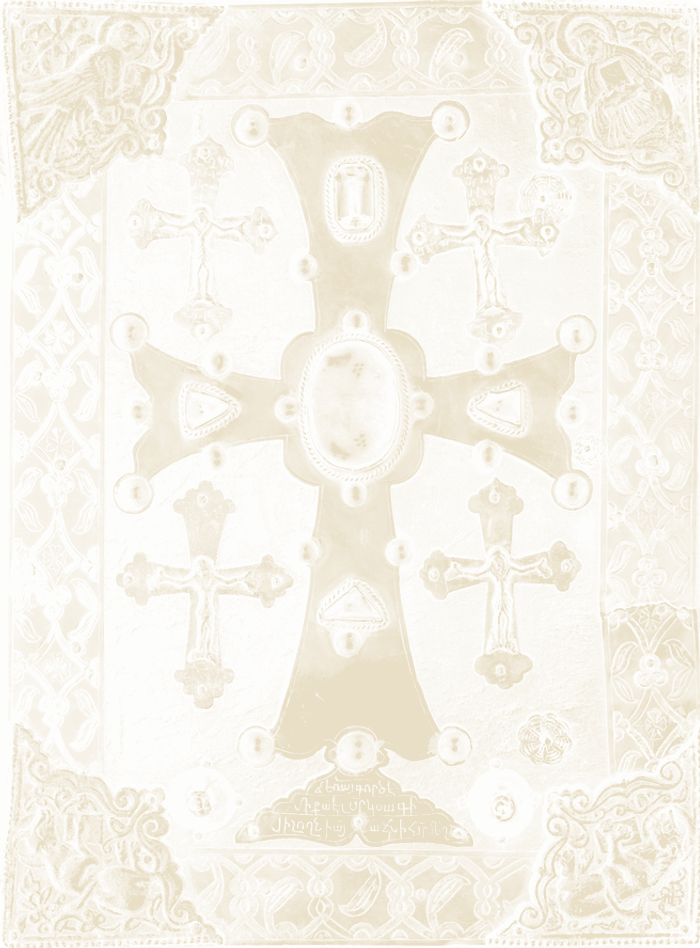
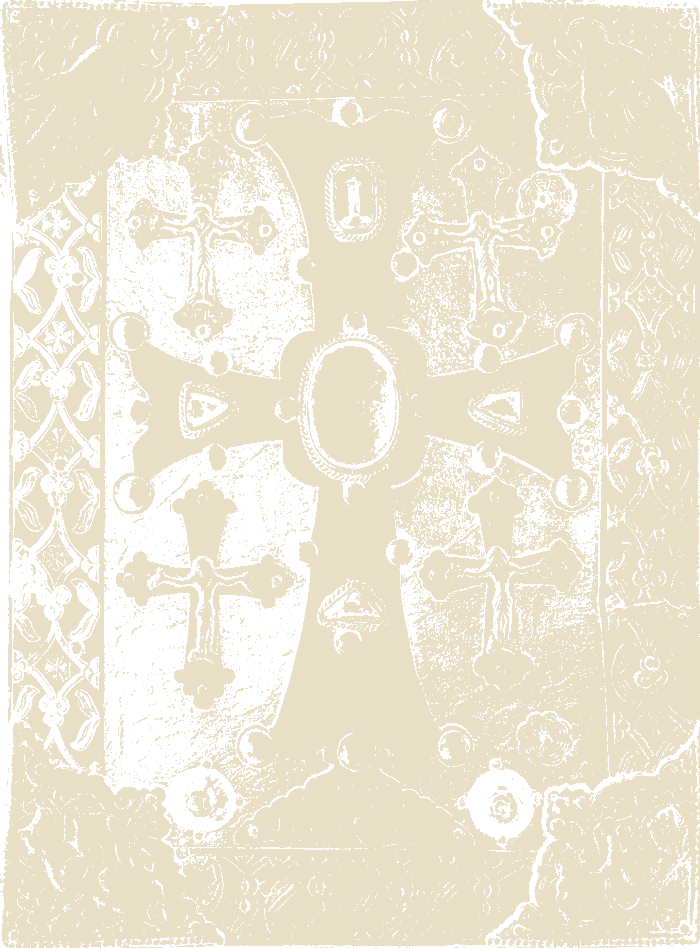
Grimorio: hojas enteras, cascada que frena y apertura lenta; alto contraste en grimorio y bola

diff --git a/src/components/altar.css b/src/components/altar.css
@@ -296,8 +296,7 @@ body:has(.blood) nav.top a, body:has(.blood) nav.top button { text-shadow: 0 0 6
 @media (prefers-reduced-motion: reduce) { .obj-key:hover .k { animation: none; } }
 :root[data-theme='light'] .obj-key .lift { filter: contrast(1.35) brightness(.85) drop-shadow(0 6px 6px rgba(60, 45, 25, .18)); }
 
-/* grimorio: la tapa gira sobre el lomo (izquierda) y las hojas se pasan una tras otra, curvandose */
-@property --bend { syntax: '<angle>'; inherits: true; initial-value: 0deg; }
+/* grimorio: la tapa gira despacio sobre el lomo (izquierda) y despues se pasan muchas hojas a toda prisa, frenando hasta quedar en una */
 .grimoire { --pg: var(--ink); --ln: var(--bg); position: relative; display: block; aspect-ratio: 700 / 948; perspective: 1100px; transform-style: preserve-3d; }
 :root[data-theme='light'] .grimoire { --pg: var(--bg); --ln: var(--ink); }
 /* pergamino y garabato: la escritura es la mascara --scribble (texto cursivo ilegible) pintada con la tinta del tema */
@@ -308,45 +307,39 @@ body:has(.blood) nav.top a, body:has(.blood) nav.top button { text-shadow: 0 0 6
   -webkit-mask-repeat: no-repeat; mask-repeat: no-repeat; -webkit-mask-size: 100% 100%; mask-size: 100% 100%;
 }
 /* sombra junto al lomo para dar volumen */
-.grimoire .g-block::before, .grimoire .gs1 > .g-side::before { content: ''; position: absolute; inset: 0; background: linear-gradient(90deg, color-mix(in srgb, var(--ln) 30%, transparent), transparent 16%); pointer-events: none; }
+.grimoire .g-block::before, .grimoire .g-side::before { content: ''; position: absolute; inset: 0; background: linear-gradient(90deg, color-mix(in srgb, var(--ln) 30%, transparent), transparent 16%); pointer-events: none; }
 .grimoire .g-block { position: absolute; left: 1%; top: 3%; width: 94%; height: 94%; border: 1px solid var(--ln); box-shadow: 3px 3px 0 -1px var(--pg), 4px 4px 0 var(--ln); }
-/* hoja = tres tiras encadenadas; cada una gira --bend mas sobre su borde izquierdo */
-.grimoire .g-leaf { position: absolute; left: 1%; top: 3%; width: 93%; height: 94%; transform-origin: 0 50%; transform-style: preserve-3d; --a: -165deg; --bend: 2deg; }
-.grimoire .gs { position: absolute; left: 0; top: 0; width: 33.4%; height: 100%; transform-origin: 0 50%; transform-style: preserve-3d; transform: rotateY(var(--bend)); }
-.grimoire .gs .gs { left: calc(100% - .5px); width: calc(100% + .5px); }
-.grimoire .g-side { position: absolute; inset: 0; backface-visibility: hidden; border-top: 1px solid var(--ln); border-bottom: 1px solid var(--ln); }
+/* hoja = una pieza; al girar se inclina (skewY) y se redondean sus esquinas exteriores para fingir la curva */
+.grimoire .g-leaf { position: absolute; left: 1%; top: 3%; width: 93%; height: 94%; transform-origin: 0 50%; transform-style: preserve-3d; --a: calc(-158deg - var(--i) * 1.1deg); transform: translateZ(calc(var(--i) * .25px)); }
+.grimoire .g-side { position: absolute; inset: 0; backface-visibility: hidden; border: 1px solid var(--ln); }
 .grimoire .g-b { transform: rotateY(180deg); }
-.grimoire .gs1 > .g-side { border-left: 1px solid var(--ln); }
-.grimoire .gs3 > .g-side { border-right: 1px solid var(--ln); }
-.grimoire .g-side::after { -webkit-mask-size: 300% 100%; mask-size: 300% 100%; inset: 11% 0 9% 0; }
-.grimoire .gs1 > .g-f::after { -webkit-mask-position: 0 0; mask-position: 0 0; left: 10%; }
-.grimoire .gs2 > .g-f::after { -webkit-mask-position: 50% 0; mask-position: 50% 0; }
-.grimoire .gs3 > .g-f::after { -webkit-mask-position: 100% 0; mask-position: 100% 0; right: 8%; }
-.grimoire .gs1 > .g-b::after { -webkit-mask-position: 100% 0; mask-position: 100% 0; left: 10%; }
-.grimoire .gs2 > .g-b::after { -webkit-mask-position: 50% 0; mask-position: 50% 0; }
-.grimoire .gs3 > .g-b::after { -webkit-mask-position: 0 0; mask-position: 0 0; right: 8%; }
-.grimoire .l1 { --a: -158deg; transform: translateZ(.5px) rotateZ(.7deg); }
-.grimoire .l2 { --a: -163deg; transform: translateZ(1px) rotateZ(-.8deg); }
-.grimoire .l3 { --a: -168deg; transform: translateZ(1.5px) rotateZ(.4deg); }
-.grimoire .g-cover { position: absolute; inset: 0; transform-origin: 0 50%; transform-style: preserve-3d; transition: transform 1s var(--ease); transform: translateZ(3px); }
+.grimoire .g-cover { position: absolute; inset: 0; transform-origin: 0 50%; transform-style: preserve-3d; transition: transform 2.3s cubic-bezier(.45, .05, .25, 1); transform: translateZ(3px); }
 .grimoire .g-front { position: absolute; inset: 0; backface-visibility: hidden; }
 .grimoire .g-front img { width: 100%; height: 100%; }
 .grimoire .g-inside { position: absolute; inset: 0; transform: rotateY(180deg); backface-visibility: hidden; background: var(--surface); border: 1px solid var(--ink-dim); border-radius: 3px; }
-.obj-book:hover .g-cover, .obj-book:focus-visible .g-cover, .obj-book.fanned .g-cover { transform: translateZ(3px) rotateY(-172deg); }
-.obj-book:hover .g-leaf, .obj-book:focus-visible .g-leaf, .obj-book.fanned .g-leaf { animation: page-turn 5.2s ease-in-out infinite; }
-.obj-book:hover .l1, .obj-book:focus-visible .l1, .obj-book.fanned .l1 { animation-delay: 1.1s; }
-.obj-book:hover .l2, .obj-book:focus-visible .l2, .obj-book.fanned .l2 { animation-delay: 1.75s; }
-.obj-book:hover .l3, .obj-book:focus-visible .l3, .obj-book.fanned .l3 { animation-delay: 2.4s; }
-/* al girar la hoja se curva (la punta se queda atras) y al volver se curva al reves; en reposo, apenas ondulada */
+.obj-book:hover .g-cover, .obj-book:focus-visible .g-cover, .obj-book.fanned .g-cover { transform: translateZ(3px) rotateY(-178deg); }
+/* ojeo: 8 hojas pasan una tras otra con huecos cada vez mayores (la ultima va mas despacio, como frenando) y se quedan abiertas un rato */
+.obj-book:hover .g-leaf, .obj-book:focus-visible .g-leaf, .obj-book.fanned .g-leaf { animation: page-turn 7s ease-in-out infinite both; }
+.grimoire .l1 { --i: 1; } .grimoire .l2 { --i: 2; } .grimoire .l3 { --i: 3; } .grimoire .l4 { --i: 4; }
+.grimoire .l5 { --i: 5; } .grimoire .l6 { --i: 6; } .grimoire .l7 { --i: 7; } .grimoire .l8 { --i: 8; }
+.obj-book:hover .l1, .obj-book:focus-visible .l1, .obj-book.fanned .l1 { animation-delay: 2.3s; }
+.obj-book:hover .l2, .obj-book:focus-visible .l2, .obj-book.fanned .l2 { animation-delay: 2.38s; }
+.obj-book:hover .l3, .obj-book:focus-visible .l3, .obj-book.fanned .l3 { animation-delay: 2.48s; }
+.obj-book:hover .l4, .obj-book:focus-visible .l4, .obj-book.fanned .l4 { animation-delay: 2.6s; }
+.obj-book:hover .l5, .obj-book:focus-visible .l5, .obj-book.fanned .l5 { animation-delay: 2.76s; }
+.obj-book:hover .l6, .obj-book:focus-visible .l6, .obj-book.fanned .l6 { animation-delay: 2.98s; }
+.obj-book:hover .l7, .obj-book:focus-visible .l7, .obj-book.fanned .l7 { animation-delay: 3.3s; }
+.obj-book:hover .l8, .obj-book:focus-visible .l8, .obj-book.fanned .l8 { animation-delay: 3.8s; }
+/* al girar, la hoja se inclina (la punta se queda atras) y vuelve plana; en reposo, plana */
 @keyframes page-turn {
-  0%, 8%   { transform: rotateY(0deg) rotateZ(0deg); --bend: 2deg; }
-  19%      { transform: rotateY(-72deg) rotateZ(-1.2deg); --bend: 15deg; }
-  30%, 56% { transform: rotateY(var(--a)) rotateZ(0deg); --bend: 3deg; }
-  67%      { transform: rotateY(-100deg) rotateZ(1deg); --bend: -13deg; }
-  80%, 100% { transform: rotateY(0deg) rotateZ(0deg); --bend: 2deg; }
+  0%        { transform: translateZ(calc(var(--i) * .25px)) rotateY(0deg) skewY(0deg); border-radius: 0; }
+  6.5%      { transform: translateZ(calc(var(--i) * .25px)) rotateY(-72deg) skewY(-5deg); border-radius: 0 16% 16% 0 / 0 7% 7% 0; }
+  13%, 55%  { transform: translateZ(calc(var(--i) * .25px)) rotateY(var(--a)) skewY(0deg); border-radius: 0; }
+  62%       { transform: translateZ(calc(var(--i) * .25px)) rotateY(-100deg) skewY(4deg); border-radius: 0 14% 14% 0 / 0 6% 6% 0; }
+  70%, 100% { transform: translateZ(calc(var(--i) * .25px)) rotateY(0deg) skewY(0deg); border-radius: 0; }
 }
 @media (prefers-reduced-motion: reduce) { .obj-book .g-leaf { animation: none !important; } .grimoire .g-cover { transition: none; } }
 /* cerrado, el libro no deja ver las hojas a traves del cuero (la tapa tiene transparencia); se muestran al abrirse */
 .grimoire .g-block, .grimoire .g-leaf { opacity: 0; transition: opacity .25s ease; }
 .obj-book:hover .g-block, .obj-book:focus-visible .g-block, .obj-book.fanned .g-block,
-.obj-book:hover .g-leaf, .obj-book:focus-visible .g-leaf, .obj-book.fanned .g-leaf { opacity: 1; transition-delay: .15s; }
+.obj-book:hover .g-leaf, .obj-book:focus-visible .g-leaf, .obj-book.fanned .g-leaf { opacity: 1; transition-delay: .9s; }

diff --git a/src/components/Stamp.tsx b/src/components/Stamp.tsx
@@ -115,15 +115,9 @@ function makeScribble(): string | null {
   return cv.toDataURL('image/png');
 }
 
-/** Hoja que se curva al pasar: tres tiras encadenadas, cada una gira un poco mas que la anterior. */
+/** Hoja del grimorio: una pieza con anverso y reverso; al girar se inclina un poco para parecer curvada. */
 function Leaf({ n }: { n: number }) {
-  const strip = (i: number): React.ReactNode => (
-    <span className={`gs gs${i}`}>
-      <span className="g-side g-f" /><span className="g-side g-b" />
-      {i < 3 && strip(i + 1)}
-    </span>
-  );
-  return <span className={`g-leaf l${n}`}>{strip(1)}</span>;
+  return <span className={`g-leaf l${n}`}><span className="g-side g-f" /><span className="g-side g-b" /></span>;
 }
 
 /** Grimorio: al pasar se abre la tapa y se van pasando las hojas, curvandose. Puerta a About. */
@@ -138,7 +132,7 @@ export function GrimoireStamp({ className = '' }: { className?: string }) {
   return (
     <span ref={el} className={`grimoire ${className}`}>
       <span className="g-block" />
-      <Leaf n={1} /><Leaf n={2} /><Leaf n={3} />
+      {[1, 2, 3, 4, 5, 6, 7, 8].map((n) => <Leaf key={n} n={n} />)}
       <span className="g-cover">
         <Stamp name="grimoire" className="g-front" />
         <span className="g-inside" />

diff --git a/docs/ROADMAP.md b/docs/ROADMAP.md
@@ -133,3 +133,4 @@ Objetivo: ver `develop` en una URL de vista previa y `main` en `arcanasacra.net`
 | 2026-11-27 | portada | Claude + image-alchemist | Grimorio (Walters W.539, CC0) como puerta a About: se abre la tapa y se pasan hojas al pasar el cursor (en tactil, primer toque abre). Bola de cristal: 2 rondas de candidatas rechazadas por Ann; buscando opciones whimsigoth/witchy (docs/img/candidatas-bola2/). |
 | 2026-11-27 | portada | Claude | Grimorio: hojas que se curvan al pasar (tres tiras encadenadas con --bend) y escritura a mano ilegible (canvas con Ballet como mascara). |
 | 2026-11-27 | cartas | Claude | Lacre nuevo: imagen `seal.webp` (cera granate con relieve y una A, generada por codigo con iluminacion SVG; `scripts/wax-seal.mjs`) en las cartas de About y Contact. Borrados `lib/ornament.ts` y el lacre dibujado. Sin licencia externa (propio). |
+| 2026-11-27 | portada | Claude | Grimorio: cubierta abre mas lenta (2,3 s), 8 hojas pasan en cascada que frena, hojas enteras sin tiras (antes salian dobladas raras); grimorio y bola 4 con alto contraste a dos tonos (umbral local, `scripts/high-contrast.mjs`); bola roja con textura del cuarzo de la bola 3; sangre con gotas irregulares. Bola 3/4 de prueba (?ball=4) con origen Pinterest sin confirmar. |
